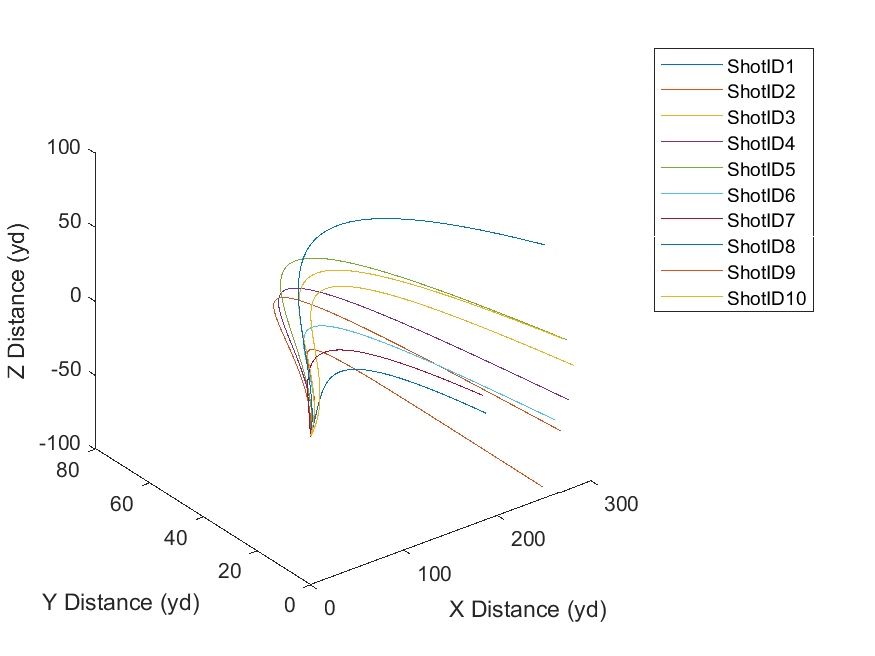
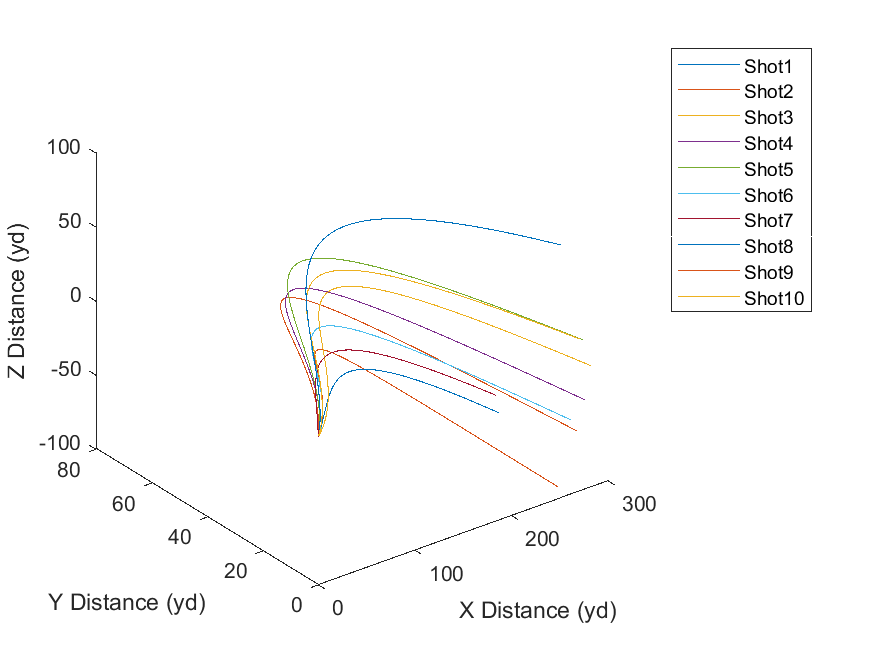
Fixed the legend on the 10 shots figure.

diff --git a/Lab1/lab1.m b/Lab1/lab1.m
@@ -30,7 +30,7 @@ for shotID = 1:size(lab1data, 1)
     side_spin = table2array(lab1data(shotID, SIDESPIN_COL)); 
     %Add to the figure
     [x, final,t] = simBallTrajectory([v0, azim, backspin, angle, side_spin, rho_in], aero_coeffs);
-    dispName = strcat('ShotID ', int2str(shotID)); 
+    dispName = strcat('Shot ', int2str(shotID)); 
     plot3(x(1:final,4)/3,x(1:final,5)/3,x(1:final,6)/3, 'DisplayName', dispName);
     carry(shotID) = x(final,4)/3;
     apexes(shotID) = max(x(1:final,5)/3); 
